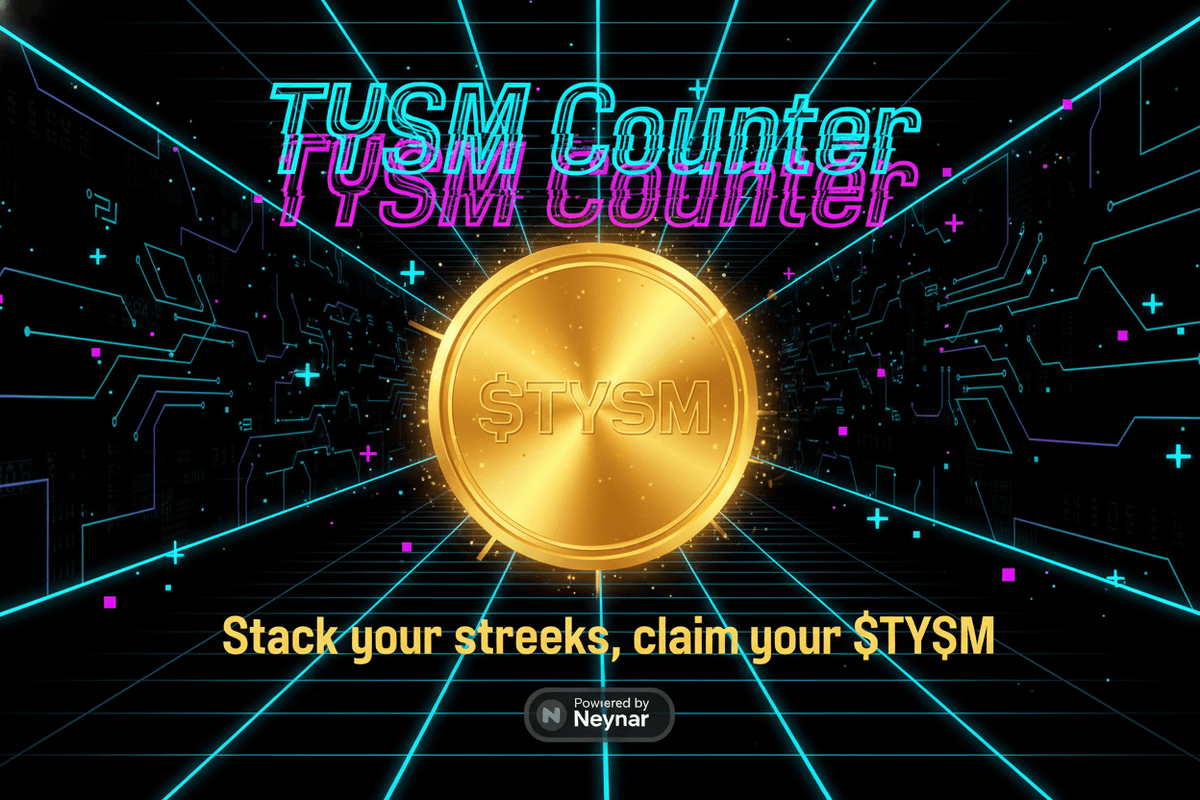
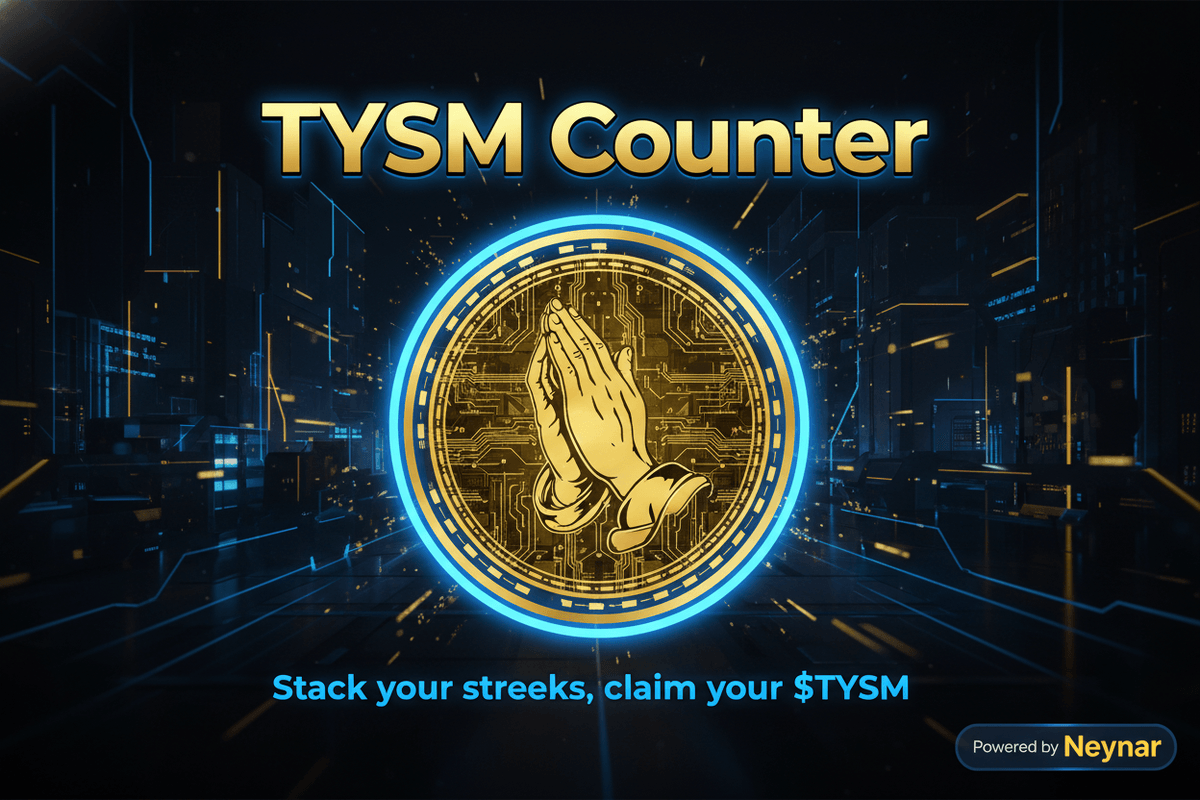
Update miniapp - 2026-01-29T00:04:43.576Z

diff --git a/src/app/globals.css b/src/app/globals.css
@@ -5,18 +5,18 @@
   --font-mono: var(--font-geist-mono);
   --font-sketch: var(--font-caveat), var(--font-patrick-hand), cursive;
 
-  /* Cyber Gold Cyberpunk Theme */
-  --primary: #F7B32B;         /* Gold gradient start */
-  --primary-alt: #FFD700;     /* Gold gradient end */
-  --accent-1: #00FFFF;        /* Neon Cyan */
-  --accent-2: #FF0080;        /* Hot Pink */
-  --accent-3: #8B00FF;        /* Electric Purple */
-  --background: #0A0A0A;      /* Deep Black */
-  --foreground: #FFFFFF;      /* White for high contrast */
+  /* TYSM Brand Color Scheme */
+  --primary: #F7B32B;         /* TYSM Gold Coin */
+  --primary-alt: #FFD700;     /* Bright Gold Highlights */
+  --accent-1: #00FFFF;        /* Neon Cyan Glow */
+  --accent-2: #2563EB;        /* Royal Blue Accent */
+  --accent-3: #1E3A8A;        /* TYSM Blue (Logo Outer Ring) */
+  --background: #0A0A0A;      /* Deep Black Background */
+  --foreground: #FFFFFF;      /* White for High Contrast */
 
   /* Sketch effect variables */
   --sketch-roughness: 2px;
-  --sketch-shadow: 3px 3px 0px rgba(255, 179, 0, 0.3);
+  --sketch-shadow: 3px 3px 0px rgba(247, 179, 43, 0.3);
   --sketch-border: 2px solid var(--primary);
 }
 
@@ -24,16 +24,13 @@
   --primary: #F7B32B;
   --primary-alt: #FFD700;
   --accent-1: #00FFFF;
-  --accent-2: #FF0080;
-  --accent-3: #8B00FF;
+  --accent-2: #2563EB;
+  --accent-3: #1E3A8A;
   --background: #0A0A0A;
   --foreground: #FFFFFF;
 }
 
-/* Rest of the existing CSS remains the same */
-/* ... (paste the entire previous CSS content here) */
-
-/* Additional Cyberpunk Glow Effects */
+/* Cyberpunk Glow Effects */
 .cyber-glow {
   box-shadow:
     0 0 10px var(--accent-1),
@@ -68,7 +65,7 @@
       0deg,
       transparent,
       transparent 2px,
-      rgba(255, 179, 0, 0.05) 2px,
-      rgba(255, 179, 0, 0.05) 4px
+      rgba(247, 179, 43, 0.05) 2px,
+      rgba(247, 179, 43, 0.05) 4px
     );
 }

diff --git a/docs/style-brief.md b/docs/style-brief.md
@@ -1,38 +1,42 @@
 # Branding Brief - TYSM Counter
 
-> Theme: **"Cyber Gold"** - Cyberpunk meets Retro with Glitch Art
+> Theme: **"Cyber Gold & Blue"** - Cyberpunk meets Retro with $TYSM branding
 
-## Color Scheme
+## Color Scheme (Based on $TYSM Logo)
 
 | Color | Hex | Usage |
 |-------|-----|-------|
-| **Gold** | `#FFD700` | Primary - $TYSM branding, highlights |
-| **Deep Gold** | `#F7B32B` | Secondary gold, buttons |
+| **TYSM Gold** | `#F7B32B` | Primary - coin, highlights, buttons |
+| **Bright Gold** | `#FFD700` | Accents, glow effects |
+| **TYSM Blue** | `#1E3A8A` | Secondary - borders, rings |
+| **Royal Blue** | `#2563EB` | Accent blue, highlights |
 | **Black** | `#0A0A0A` | Background |
-| **Neon Cyan** | `#00FFFF` | Accent, glow effects |
-| **Hot Pink** | `#FF0080` | Secondary accent |
-| **Electric Purple** | `#8B00FF` | Highlights, borders |
+| **Neon Cyan** | `#00FFFF` | Glow effects (cyberpunk accent) |
+
+## Logo Elements
+
+- 🙏 Praying hands icon (Thank You So Much)
+- Gold coin with blue outer ring
+- Clean, bold design
 
 ## Visual Style
 
 - **Dark mode** with deep black background
 - **Cyberpunk/Retro** aesthetic
+- **Gold & Blue** color combination from $TYSM logo
 - **Neon glow effects** on buttons and highlights
-- **Scanline overlay** for CRT retro feel
 - **Glitch animations** on headings
-- **Sharp geometric shapes** with neon borders
 
 ## Effects & Animations
 
-- Glow pulse on Check In button
+- Gold glow pulse on Check In button
 - Glitch flicker on title
-- Scanline sweep effect
-- Neon border animations
-- Text shadow with cyan/pink for depth
+- Blue neon border animations
+- Text shadow with gold/cyan for depth
 
 ## Inspiration
 
-- $TYSM token gold branding
+- $TYSM token logo (praying hands, gold & blue)
 - Howlers NFT community
-- 80s arcade aesthetic
+- Cyberpunk aesthetic
 - Crypto dashboard meets retro gaming
